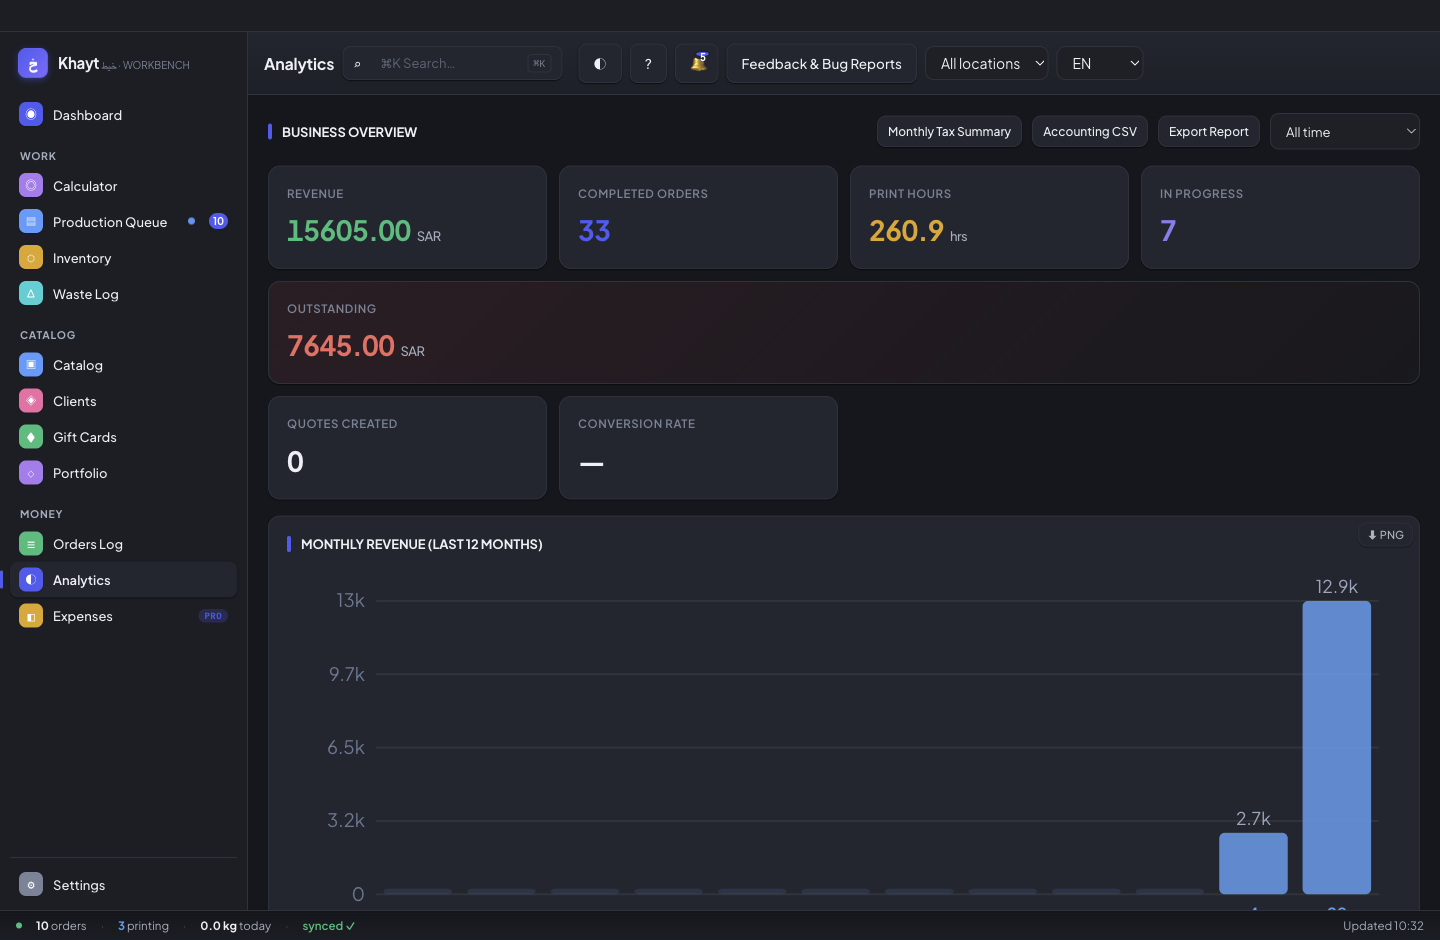
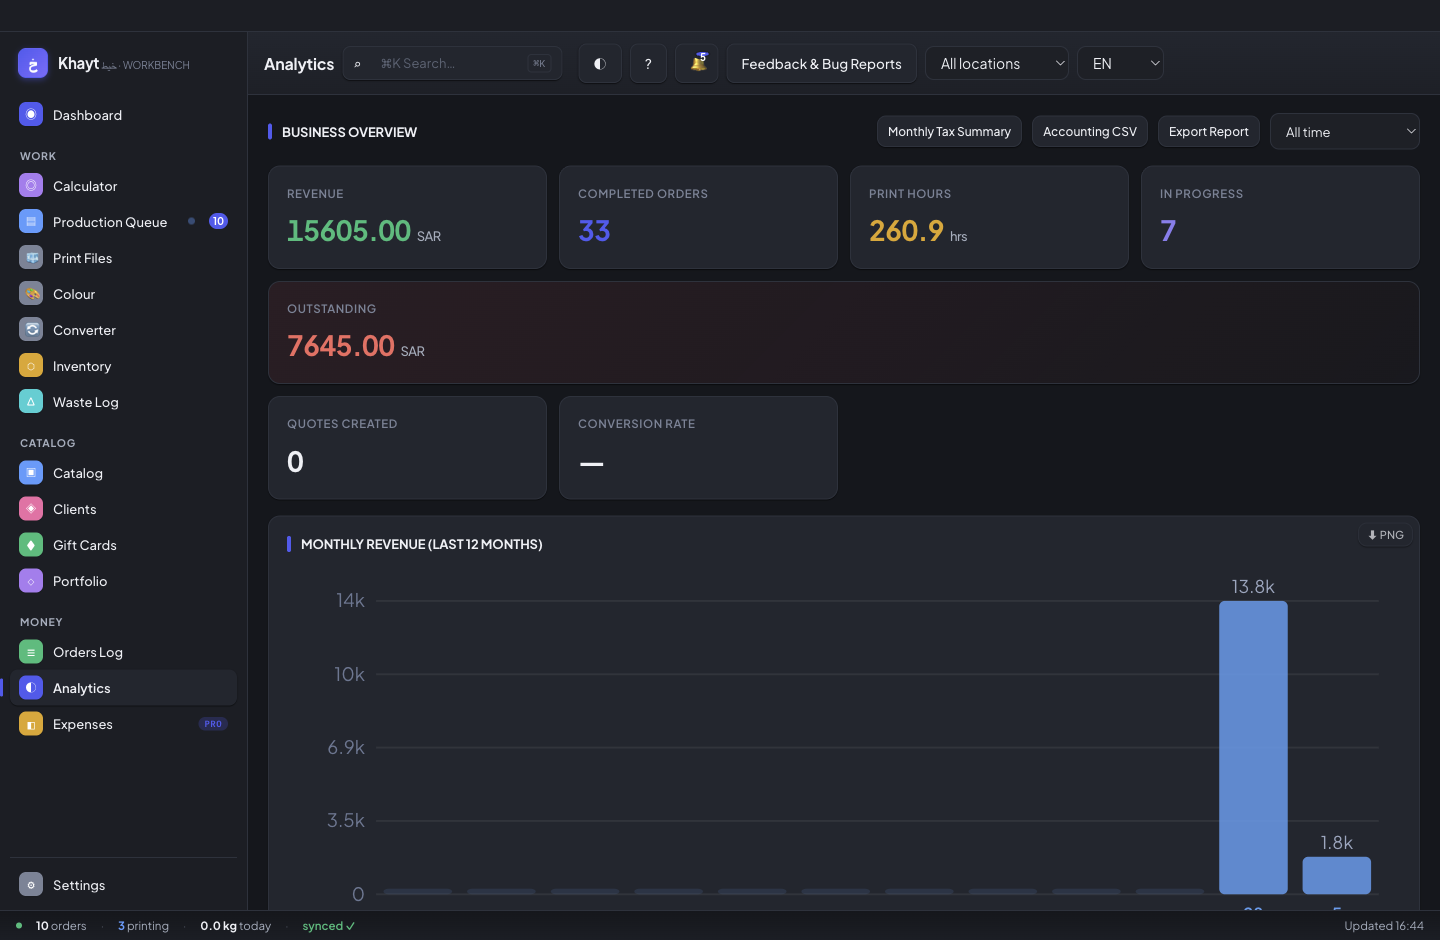
Fix dashboard due-date label + overhaul screenshot tooling — beta.14
The Workbench and Vivid dashboards rendered a literal "Due in {n}d" in the
"Today's work" list — the {n} placeholder for the due/overdue labels was
never substituted. Fixed in both themes (the other tiles already did the
`.replace('{n}', …)`).

Screenshot tooling, so the marketing site reflects the real 3.x app:
- demo store seeds a Print-File library with real base64-PNG preview
  thumbnails (safeImageSrc rejects SVG data URIs), so the new 3.1 screens
  capture non-empty.
- capture scripts round-trip the store to disk and gate on the demo data
  actually landing in the app global (an empty-state <tr> was a false-ready
  signal), fixing the empty dashboard/queue captures.
- new capture-website-screenshots.mjs (full site gallery: Workbench/Command/
  Vivid × EN/AR, incl. Print Files + Colour Studio) and
  capture-mode-showcase.mjs (Enthusiast/Simple/Professional dashboards).
- regenerate the release/README assets/ set.

diff --git a/renderer/themes/vivid/screens.js b/renderer/themes/vivid/screens.js
@@ -103,10 +103,10 @@
       const today = new Date(); today.setHours(0, 0, 0, 0);
       const due = new Date(order.dueDate + 'T00:00:00');
       const diff = Math.round((due - today) / 86400000);
-      if (diff < 0) parts.push(tr('oe.due_overdue', `${Math.abs(diff)}d overdue`));
+      if (diff < 0) parts.push(tr('oe.due_overdue', 'Overdue by {n}d').replace('{n}', Math.abs(diff)));
       else if (diff === 0) parts.push(tr('dash.due_today_sub', 'due today'));
       else if (diff === 1) parts.push(tr('dash.due_tomorrow_sub', 'due tomorrow'));
-      else parts.push(tr('oe.due_in', `due in ${diff}d`));
+      else parts.push(tr('oe.due_in', 'Due in {n}d').replace('{n}', diff));
     }
     if (!parts.length) parts.push(order.id);
     const sub = parts.join(' · ');

diff --git a/renderer/themes/workbench/screens.js b/renderer/themes/workbench/screens.js
@@ -112,10 +112,10 @@
       const today = new Date(); today.setHours(0, 0, 0, 0);
       const due = new Date(order.dueDate + 'T00:00:00');
       const diff = Math.round((due - today) / 86400000);
-      if (diff < 0) parts.push(tr('oe.due_overdue', `${Math.abs(diff)}d overdue`));
+      if (diff < 0) parts.push(tr('oe.due_overdue', 'Overdue by {n}d').replace('{n}', Math.abs(diff)));
       else if (diff === 0) parts.push(tr('dash.due_today_sub', 'due today'));
       else if (diff === 1) parts.push(tr('dash.due_tomorrow_sub', 'due tomorrow'));
-      else parts.push(tr('oe.due_in', `due in ${diff}d`));
+      else parts.push(tr('oe.due_in', 'Due in {n}d').replace('{n}', diff));
     }
     if (!parts.length) parts.push(order.id);
     const sub = parts.join(' · ');

diff --git a/CHANGELOG.md b/CHANGELOG.md
@@ -4,6 +4,18 @@ All notable changes to Khayt are documented here. Version format: [VERSIONING.md
 
 ## [Unreleased]
 
+## [3.1.0-beta.14] - 2026-07-05
+
+**Pre-release (beta) — dashboard due-date fix + refreshed marketing screenshots.**
+
+### Fixed
+
+- **The Workbench and Vivid dashboards showed a literal "Due in {n}d"** in the "Today's work" list instead of the actual number of days (e.g. "Due in 2d"). The `{n}` placeholder wasn't being substituted for the due-date and overdue labels. Now fixed in both themes.
+
+### Internal
+
+- Screenshot tooling overhauled for the marketing site: the demo store seeds a Print-File library (with real PNG preview thumbnails) so the new 3.1 screens capture non-empty; the capture scripts gate on the demo data actually landing (fixing empty dashboards/queues); and new scripts capture the full website gallery (Workbench/Command/Vivid × EN/AR, including Print Files and Colour Studio) plus a three-modes dashboard showcase.
+
 ## [3.1.0-beta.13] - 2026-07-05
 
 **Pre-release (beta) — every installed slicer, not just one.** Khayt now finds the slicers already on your computer instead of expecting you to type a program path by hand.
